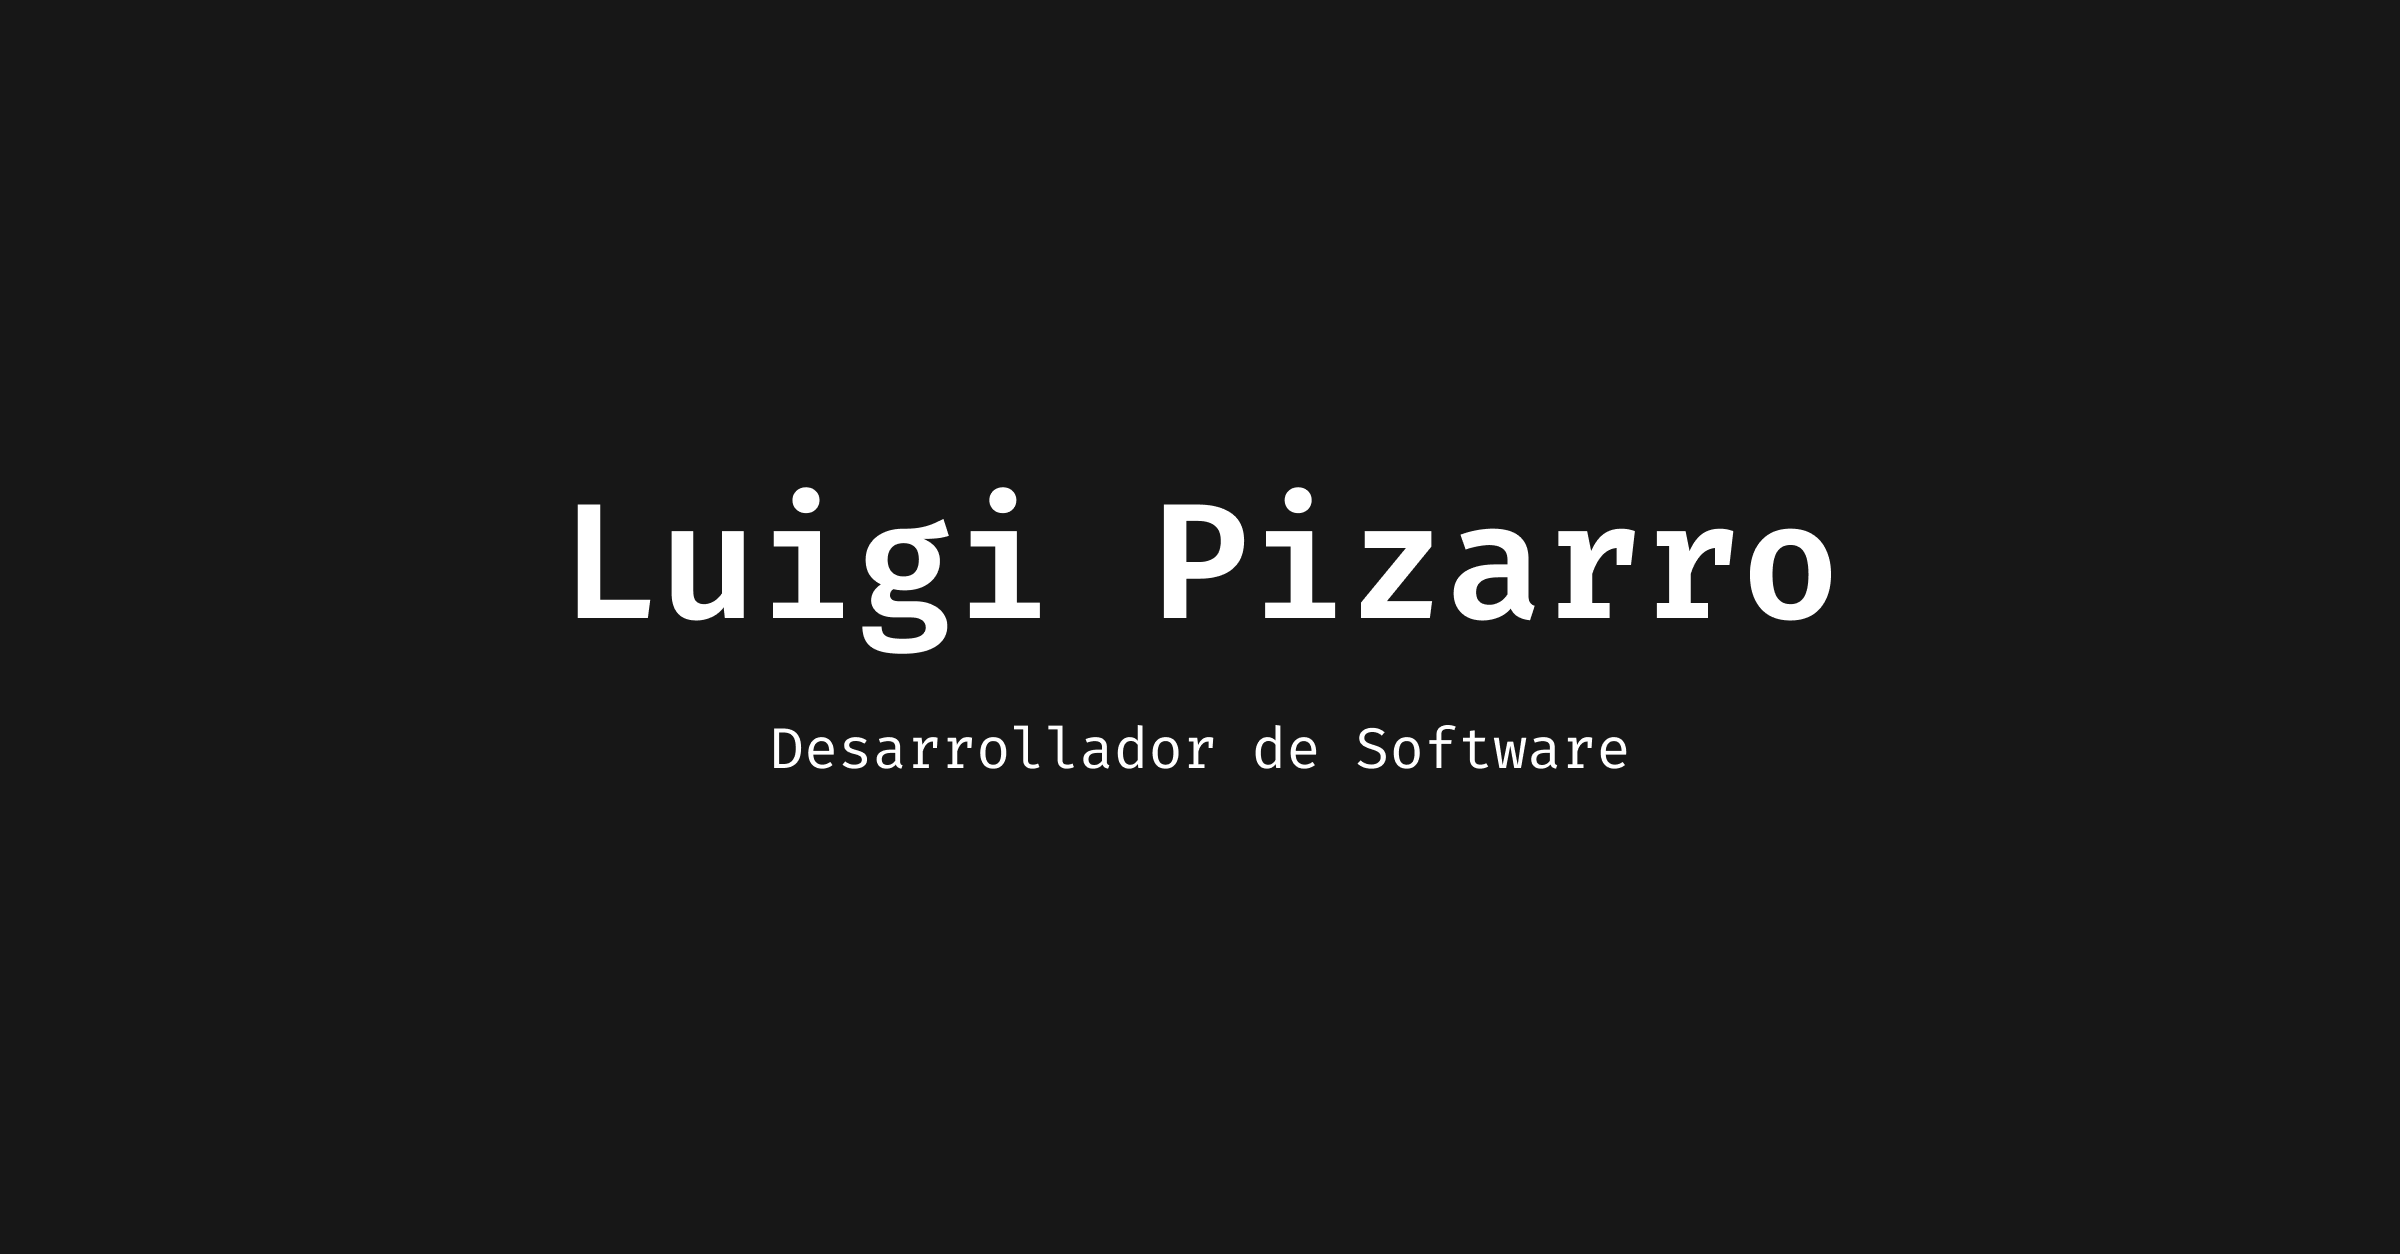
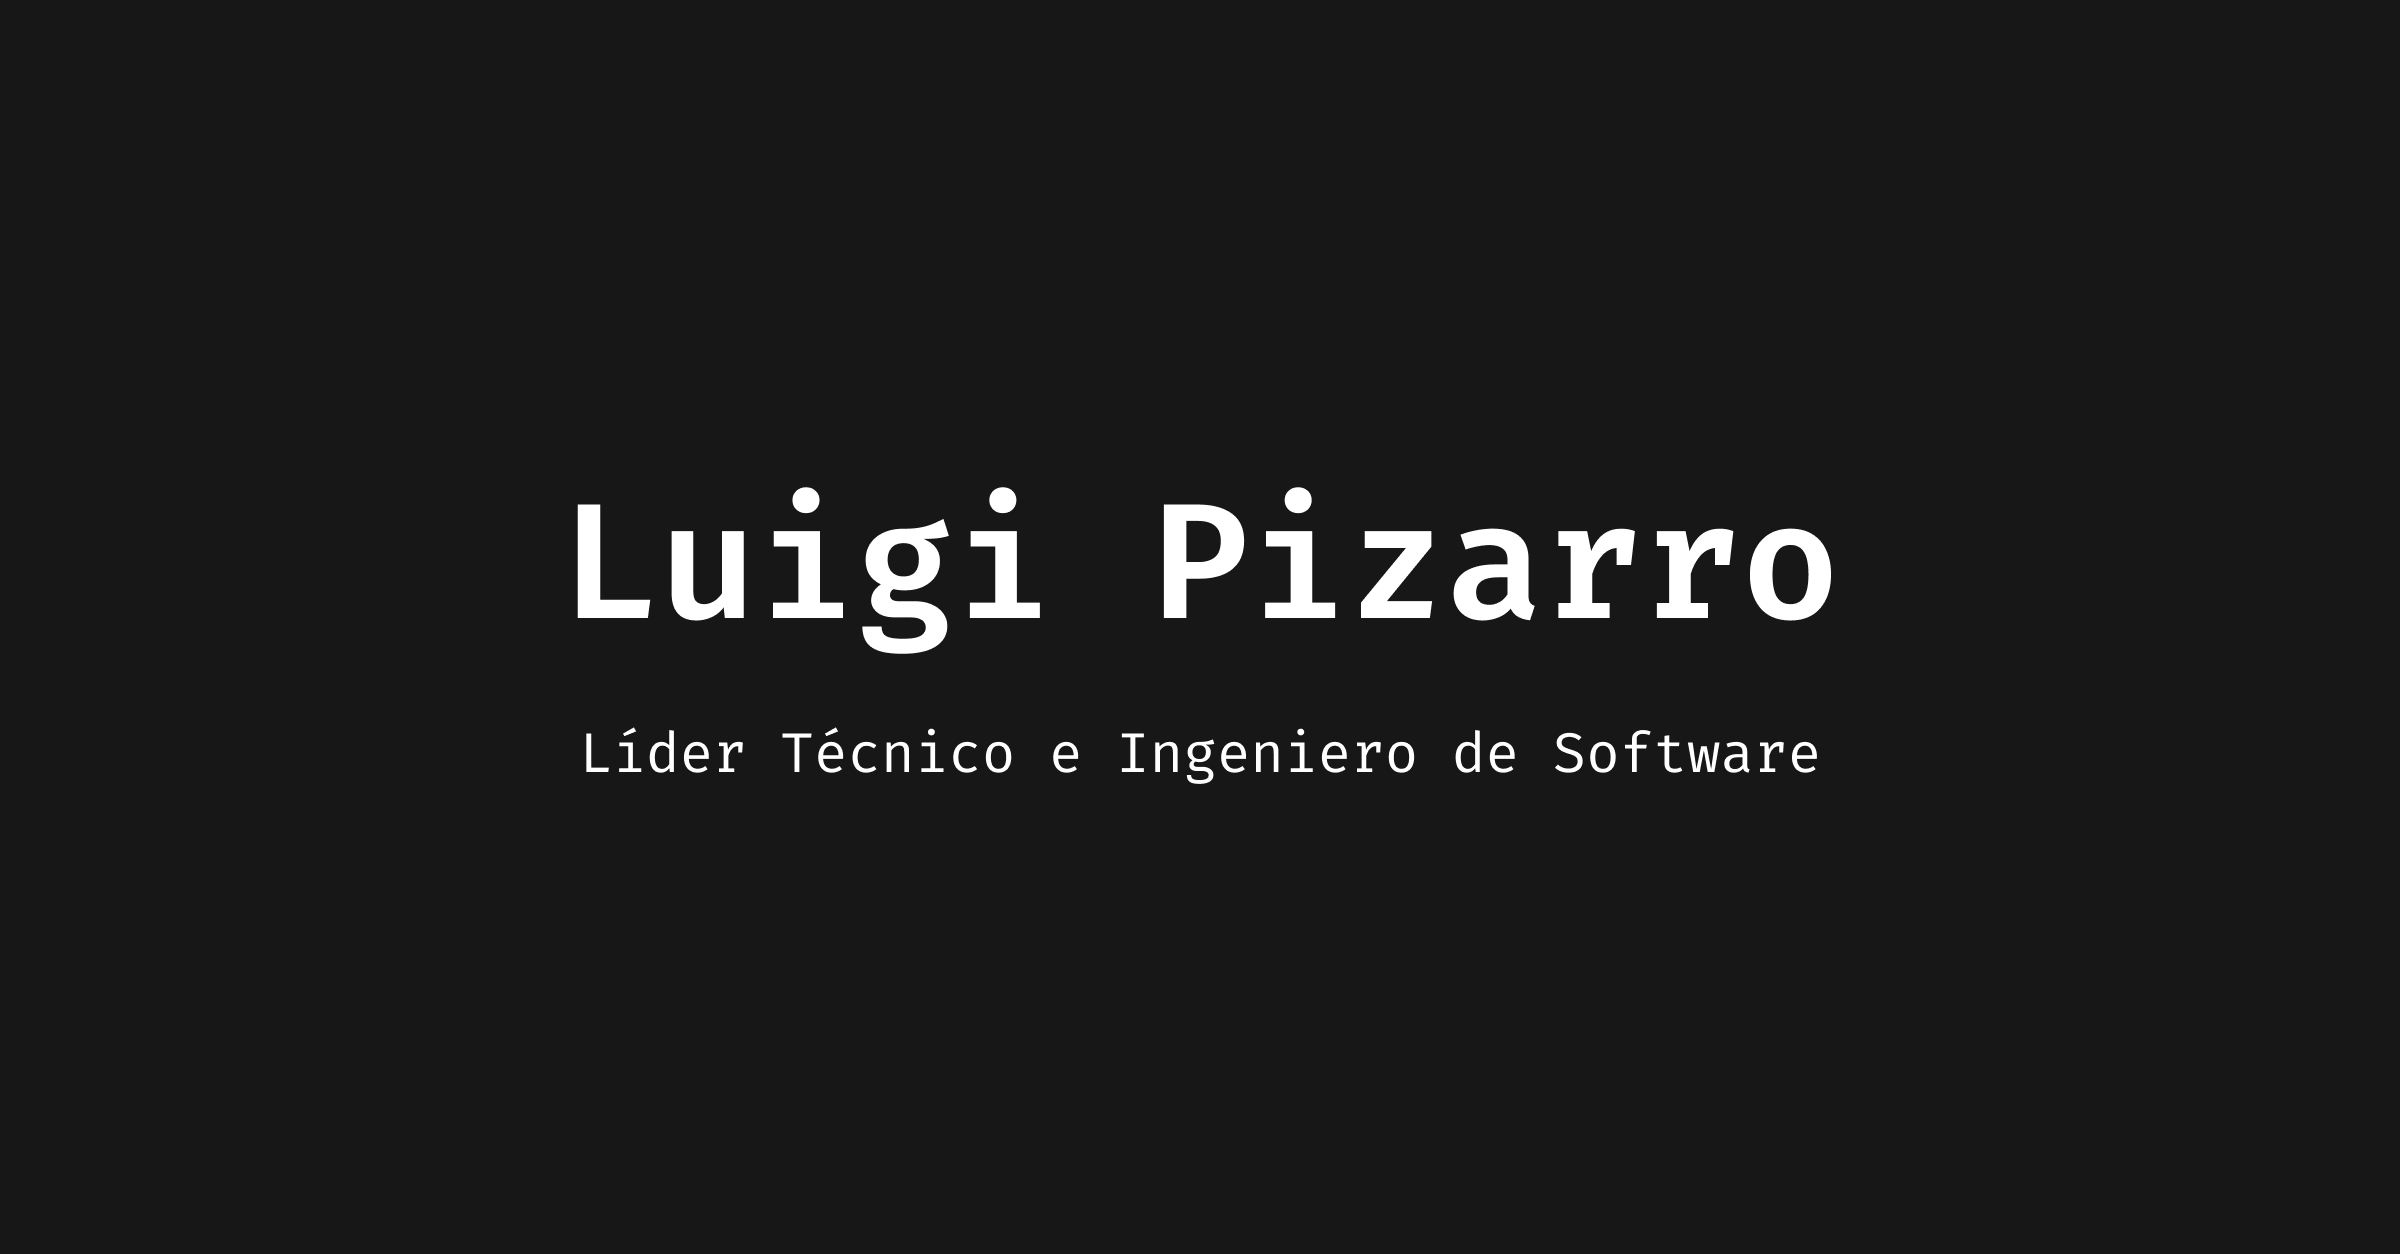
feat: update copies

Changed region(s): [[0.25, 0.5598, 0.75, 0.622]]

diff --git a/app/page.tsx b/app/page.tsx
@@ -1,7 +1,7 @@
-import Header from './components/Header';
-import Container from './components/Container';
-import Skills from './components/Skills';
-import Menu from './components/Menu';
+import Header from "./components/Header";
+import Container from "./components/Container";
+import Skills from "./components/Skills";
+import Menu from "./components/Menu";
 
 export default function Home() {
   return (
@@ -11,27 +11,26 @@ export default function Home() {
       <section className="flex items-center md:min-h-screen justify-start py-8 md:py-20">
         <Container>
           <div className="flex flex-col gap-10 md:gap-12 max-w-screen-lg">
-            <h1 className="font-semibold text-[2.75rem] leading-tight md:text-6xl md:leading-tight">
-              Transformando ideas en productos digitales
+            <h1 className="font-semibold text-[2.75rem] leading-tight md:text-[3.25rem] md:leading-tight">
+              Transformando ideas en productos digitales de alto impacto
             </h1>
 
             <div className="dark:text-neutral-400 flex flex-col gap-6 md:text-lg md:leading-relaxed">
               <h2>
                 ¡Hola! Soy Luigi Pizarro, líder técnico e ingeniero de software
-                con más de{' '}
+                con más de{" "}
                 <strong className="font-semibold dark:text-white">
                   10 años de experiencia
-                </strong>{' '}
-                en el desarrollo de productos digitales enfocados en
-                funcionalidad y diseño.
+                </strong>{" "}
+                construyendo productos digitales.
               </h2>
 
               <p>
-                Actualmente, soy{' '}
+                Hoy{" "}
                 <strong className="font-semibold dark:text-white">
-                  Líder Técnico
-                </strong>{' '}
-                en{' '}
+                  lidero un equipo
+                </strong>{" "}
+                en{" "}
                 <a
                   className="hover:text-blue-500 underline"
                   href="https://xepelin.com/"
@@ -41,21 +40,39 @@ export default function Home() {
                 >
                   Xepelin
                 </a>
-                , una fintech chilena, donde impulso soluciones clave para el
-                negocio y optimizo procesos críticos. Además, me apasiona{' '}
+                , fintech de alto crecimiento en LATAM, donde{" "}
                 <strong className="font-semibold dark:text-white">
-                  emprender
-                </strong>{' '}
-                proyectos personales donde exploro nuevas tecnologías y
-                metodologías. Como{' '}
+                  integro AI
+                </strong>{" "}
+                en productos y procesos para elevar la productividad y calidad
+                técnica del equipo. También{" "}
                 <strong className="font-semibold dark:text-white">
-                  mentor
+                  mentoreo
+                </strong>{" "}
+                a ingenieros en su desarrollo, promoviendo buenas prácticas y
+                autonomía.
+              </p>
+              <p>
+                Además, soy{" "}
+                <strong className="font-semibold dark:text-white">
+                  fundador
+                </strong>{" "}
+                de{" "}
+                <a
+                  className="hover:text-white underline"
+                  href="extasiados.com"
+                  target="_blank"
+                  rel="noopener"
+                  title="Ir a la tienda de Extasiados"
+                >
+                  Extasiados
+                </a>
+                , marca de streetwear inspirada en la cultura{" "}
+                <strong className="font-semibold dark:text-white">
+                  techno
                 </strong>
-                , guío a ingenieros en su desarrollo profesional,{' '}
-                <strong className="font-semibold dark:text-white">
-                  compartiendo
-                </strong>{' '}
-                conocimientos y promoviendo buenas prácticas.
+                , un proyecto donde conecto creatividad, diseño y tecnología
+                para convertir ideas en productos reales.
               </p>
             </div>
 

diff --git a/app/components/Skills.tsx b/app/components/Skills.tsx
@@ -1,60 +1,60 @@
-import Badge from './Badge';
+import Badge from "./Badge";
 
 interface SkillsProps {
   className?: string;
 }
 
-export default function Skills({ className = '' }: SkillsProps) {
+export default function Skills({ className = "" }: SkillsProps) {
   const skills = [
     {
-      label: 'JavaScript',
-      background: 'bg-yellow-500',
-      color: 'text-yellow-600 dark:text-yellow-600',
+      label: "JavaScript",
+      background: "bg-yellow-500",
+      color: "text-yellow-600 dark:text-yellow-600",
     },
     {
-      label: 'React',
-      background: 'bg-cyan-600',
-      color: 'text-cyan-500 dark:text-cyan-500',
+      label: "React",
+      background: "bg-cyan-600",
+      color: "text-cyan-500 dark:text-cyan-500",
     },
     {
-      label: 'TypeScript',
-      background: 'bg-blue-600',
-      color: 'text-blue-500 dark:text-blue-500',
+      label: "TypeScript",
+      background: "bg-blue-600",
+      color: "text-blue-500 dark:text-blue-500",
     },
     {
-      label: 'Next.js',
-      background: 'bg-neutral-400',
-      color: 'text-neutral-600 dark:text-neutral-400',
+      label: "Next.js",
+      background: "bg-neutral-400",
+      color: "text-neutral-600 dark:text-neutral-400",
     },
     {
-      label: 'Node',
-      background: 'bg-green-600',
-      color: 'text-green-600 dark:text-green-600',
+      label: "Node",
+      background: "bg-green-600",
+      color: "text-green-600 dark:text-green-600",
     },
     {
-      label: 'React Native',
-      background: 'bg-purple-400',
-      color: 'text-purple-500 dark:text-purple-400',
+      label: "React Native",
+      background: "bg-purple-400",
+      color: "text-purple-500 dark:text-purple-400",
     },
     {
-      label: 'CSS',
-      background: 'bg-rose-400',
-      color: 'text-rose-500 dark:text-rose-400',
+      label: "CSS",
+      background: "bg-rose-400",
+      color: "text-rose-500 dark:text-rose-400",
     },
     {
-      label: 'Performance',
-      background: 'bg-indigo-500',
-      color: 'text-indigo-500 dark:text-indigo-300',
+      label: "Arquitectura",
+      background: "bg-indigo-500",
+      color: "text-indigo-500 dark:text-indigo-300",
     },
+    // {
+    //   label: 'WordPress',
+    //   background: 'bg-slate-500',
+    //   color: 'text-slate-500 dark:text-slate-400',
+    // },
     {
-      label: 'WordPress',
-      background: 'bg-slate-500',
-      color: 'text-slate-500 dark:text-slate-400',
-    },
-    {
-      label: 'Shopify',
-      background: 'bg-lime-500',
-      color: 'text-lime-600 dark:text-lime-300',
+      label: "Shopify",
+      background: "bg-lime-500",
+      color: "text-lime-600 dark:text-lime-300",
     },
   ];
 

diff --git a/app/layout.tsx b/app/layout.tsx
@@ -1,25 +1,25 @@
-import type { Metadata } from 'next';
-import { Fira_Code } from 'next/font/google';
-import { GoogleAnalytics } from '@next/third-parties/google';
-import { SpeedInsights } from '@vercel/speed-insights/next';
-import { Analytics } from '@vercel/analytics/react';
-import './globals.css';
+import type { Metadata } from "next";
+import { Fira_Code } from "next/font/google";
+import { GoogleAnalytics } from "@next/third-parties/google";
+import { SpeedInsights } from "@vercel/speed-insights/next";
+import { Analytics } from "@vercel/analytics/react";
+import "./globals.css";
 
-const fira = Fira_Code({ subsets: ['latin'] });
+const fira = Fira_Code({ subsets: ["latin"] });
 
 export const metadata: Metadata = {
-  title: 'Luigi Pizarro | Líder Técnico e Ingeniero de Software',
+  title: "Luigi Pizarro | Líder Técnico e Ingeniero de Software",
   description:
-    'Más de 10 años de experiencia en el desarrollo de productos digitales enfocados en funcionalidad y diseño. Javascript, React, TypeScript, Next.js, Node, React Native, CSS, Performance, WordPress, Shopify.',
-  robots: 'index, follow',
+    "Líder técnico con 10 años de experiencia. Especializado en AI, productividad y desarrollo de productos digitales. Fundador de Extasiados.",
+  robots: "index, follow",
   alternates: { canonical: process.env.NEXT_PUBLIC_BASE_URL },
   openGraph: {
-    type: 'website',
+    type: "website",
     url: process.env.NEXT_PUBLIC_BASE_URL,
-    title: 'Luigi Pizarro | Líder Técnico e Ingeniero de Software',
+    title: "Luigi Pizarro | Líder Técnico e Ingeniero de Software",
     description:
-      'Más de 10 años de experiencia en el desarrollo de productos digitales enfocados en funcionalidad y diseño. Javascript, React, TypeScript, Next.js, Node, React Native, CSS, Performance, WordPress, Shopify.',
-    siteName: 'Luigi Pizarro',
+      "Líder técnico con 10 años de experiencia. Especializado en AI, productividad y desarrollo de productos digitales. Fundador de Extasiados.",
+    siteName: "Luigi Pizarro",
     images: [
       {
         url: `${process.env.NEXT_PUBLIC_BASE_URL}/social-image.png`,
@@ -27,9 +27,9 @@ export const metadata: Metadata = {
     ],
   },
   twitter: {
-    card: 'summary_large_image',
-    site: '@soyluking',
-    creator: '@soyluking',
+    card: "summary_large_image",
+    site: "@soyluking",
+    creator: "@soyluking",
     images: `${process.env.NEXT_PUBLIC_BASE_URL}/social-image.png`,
   },
 };

diff --git a/app/components/Header.tsx b/app/components/Header.tsx
@@ -1,5 +1,5 @@
-import Container from './Container';
-import Menu from './Menu';
+import Container from "./Container";
+import Menu from "./Menu";
 
 export default function Header() {
   return (
